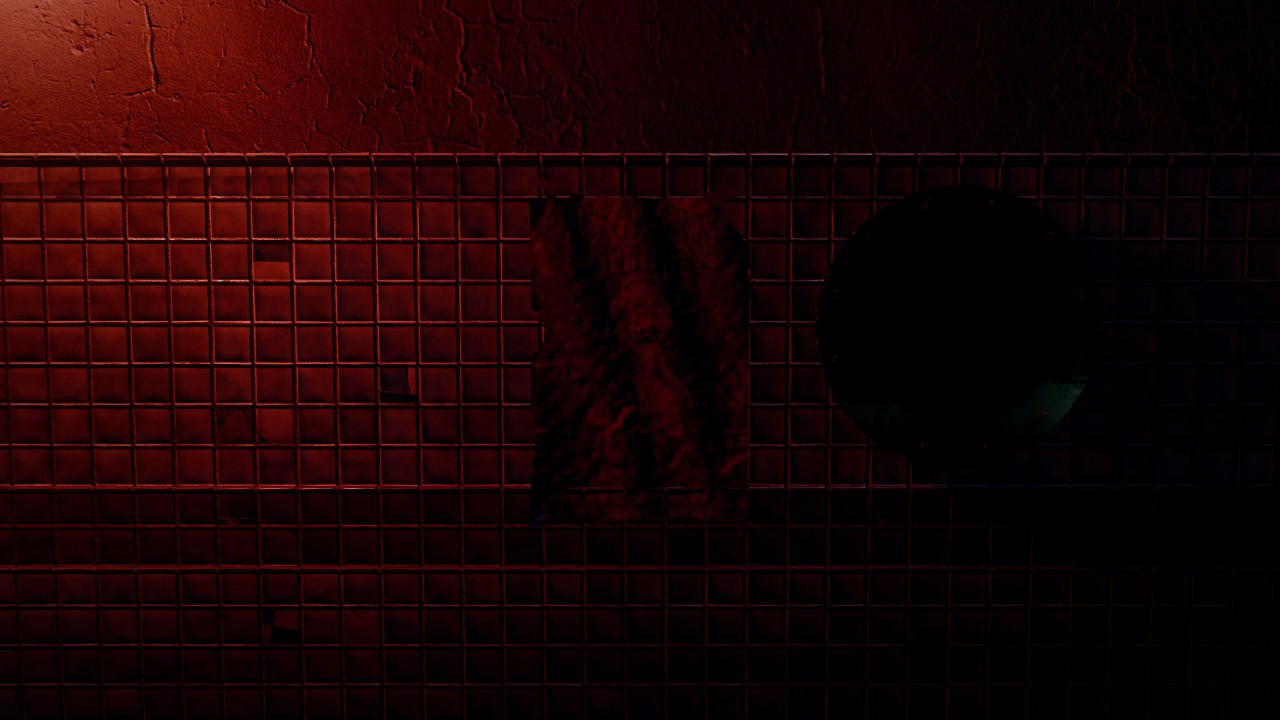
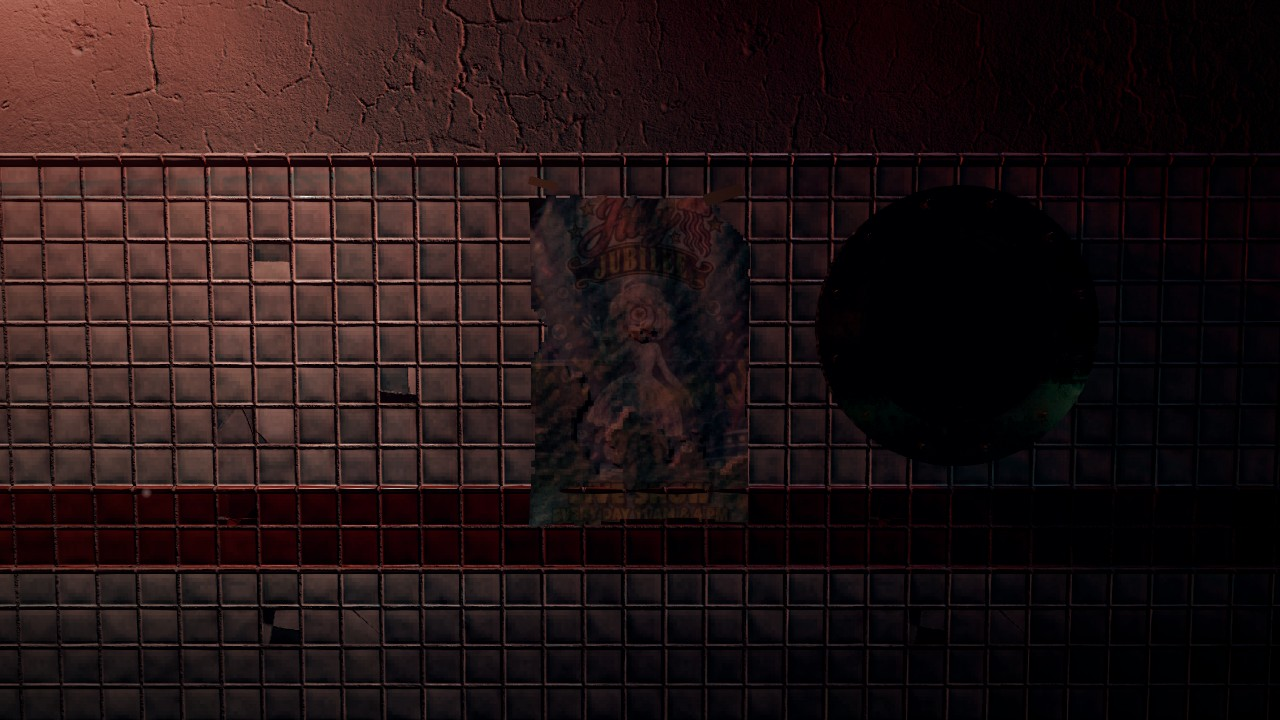
Targa di Jilly sulle piastrelle della vasca: la collisione sporge 3 cm (controllo severo); tolte le eccezioni di targa e manifesto
- mascotte_sala.gd: affondo per gli oggetti da parete (dove il muro visibile sta dietro la collisione): la targa
  3 cm piu' indietro, sulle piastrelle; test_sala ne tiene conto
- il manifesto era gia' a filo (correzione del pomeriggio); scatti ravvicinati rifatti

Claude-Session: https://claude.ai/code/session_01YWTG1mGq714ESVViUmQhYw

diff --git a/docs/report/mascotte/posizionamento/LEGGIMI.md b/docs/report/mascotte/posizionamento/LEGGIMI.md
@@ -9,7 +9,7 @@ Misura al centimetro: `godot/proposte/mascotte/sonda_mascotte_posizioni.gd` (per
 | --- | --- | --- | --- |
 | Lampade dell'insegna | lampadina e paralume a mezz'aria (1-3 cm dal braccio) | il braccio entra nel portalampada di ferro, il paralume ci si appoggia, la lampadina e' avvitata sotto | `insegna_lampada_sx.jpg`, `insegna_lampade.jpg` |
 | Manifesto | 3-4 cm staccato dal muro (il muro visibile li' e' dove c'e' la collisione) | a filo del muro (Posa.fissa_al_muro): il retro a 1-11 mm per le onde della carta, la colla a 1,5 mm | `manifesto.jpg`, `manifesto_bordo.jpg` |
-| Targa | a filo (3 mm) | a filo, con Posa | `targa.jpg` |
+| Targa | a filo della collisione, ma la collisione della vasca sporge 3 cm oltre le piastrelle: 3 cm staccata (controllo severo, sera) | sulle piastrelle vere (Posa con l'affondo di 3 cm) | `targa.jpg` |
 | Insegna (pannello, staffe, piastre) | a filo (3-13 mm) | a filo, con Posa | `insegna_lampade.jpg` |
 | Statue (squalo, polpo A, polpo B) | appoggiate: la base tocca il pavimento | uguale | `statua_*_base.jpg` |
 | Cornice dell'insegna | i listelli su e giu' si sovrappongono a quelli di lato (la sonda, che guarda i vertici, li dava staccati: sono scatole con 8 vertici) | uguale | - |
@@ -18,3 +18,7 @@ Misura al centimetro: `godot/proposte/mascotte/sonda_mascotte_posizioni.gd` (per
 Il "pezzo della medusa della vasca a 1 cm" del controllo severo (`Vasca/Medusa/@Node3D@.../@MeshInstance3D@...`, e lo
 stesso alla fossa) e' una goccia d'acqua che cade dalle dita (WaterDripEmitter, addons/acqua): si vede solo mentre
 cade, e nello stato "tutto visibile" resta ferma a mezz'aria. Non e' un oggetto da fissare.
+
+Controllo severo della sera (gruppi che si reggono solo fra loro): il manifesto era gia' a posto con la correzione
+del pomeriggio (il rapporto di grafica era fatto prima che fosse unita); la targa era vera: corretta come sopra.
+Controllo ufficiale sul ramo, dopo aver unito lavoro/godot 9628ee5: 0 casi di mascotte.
